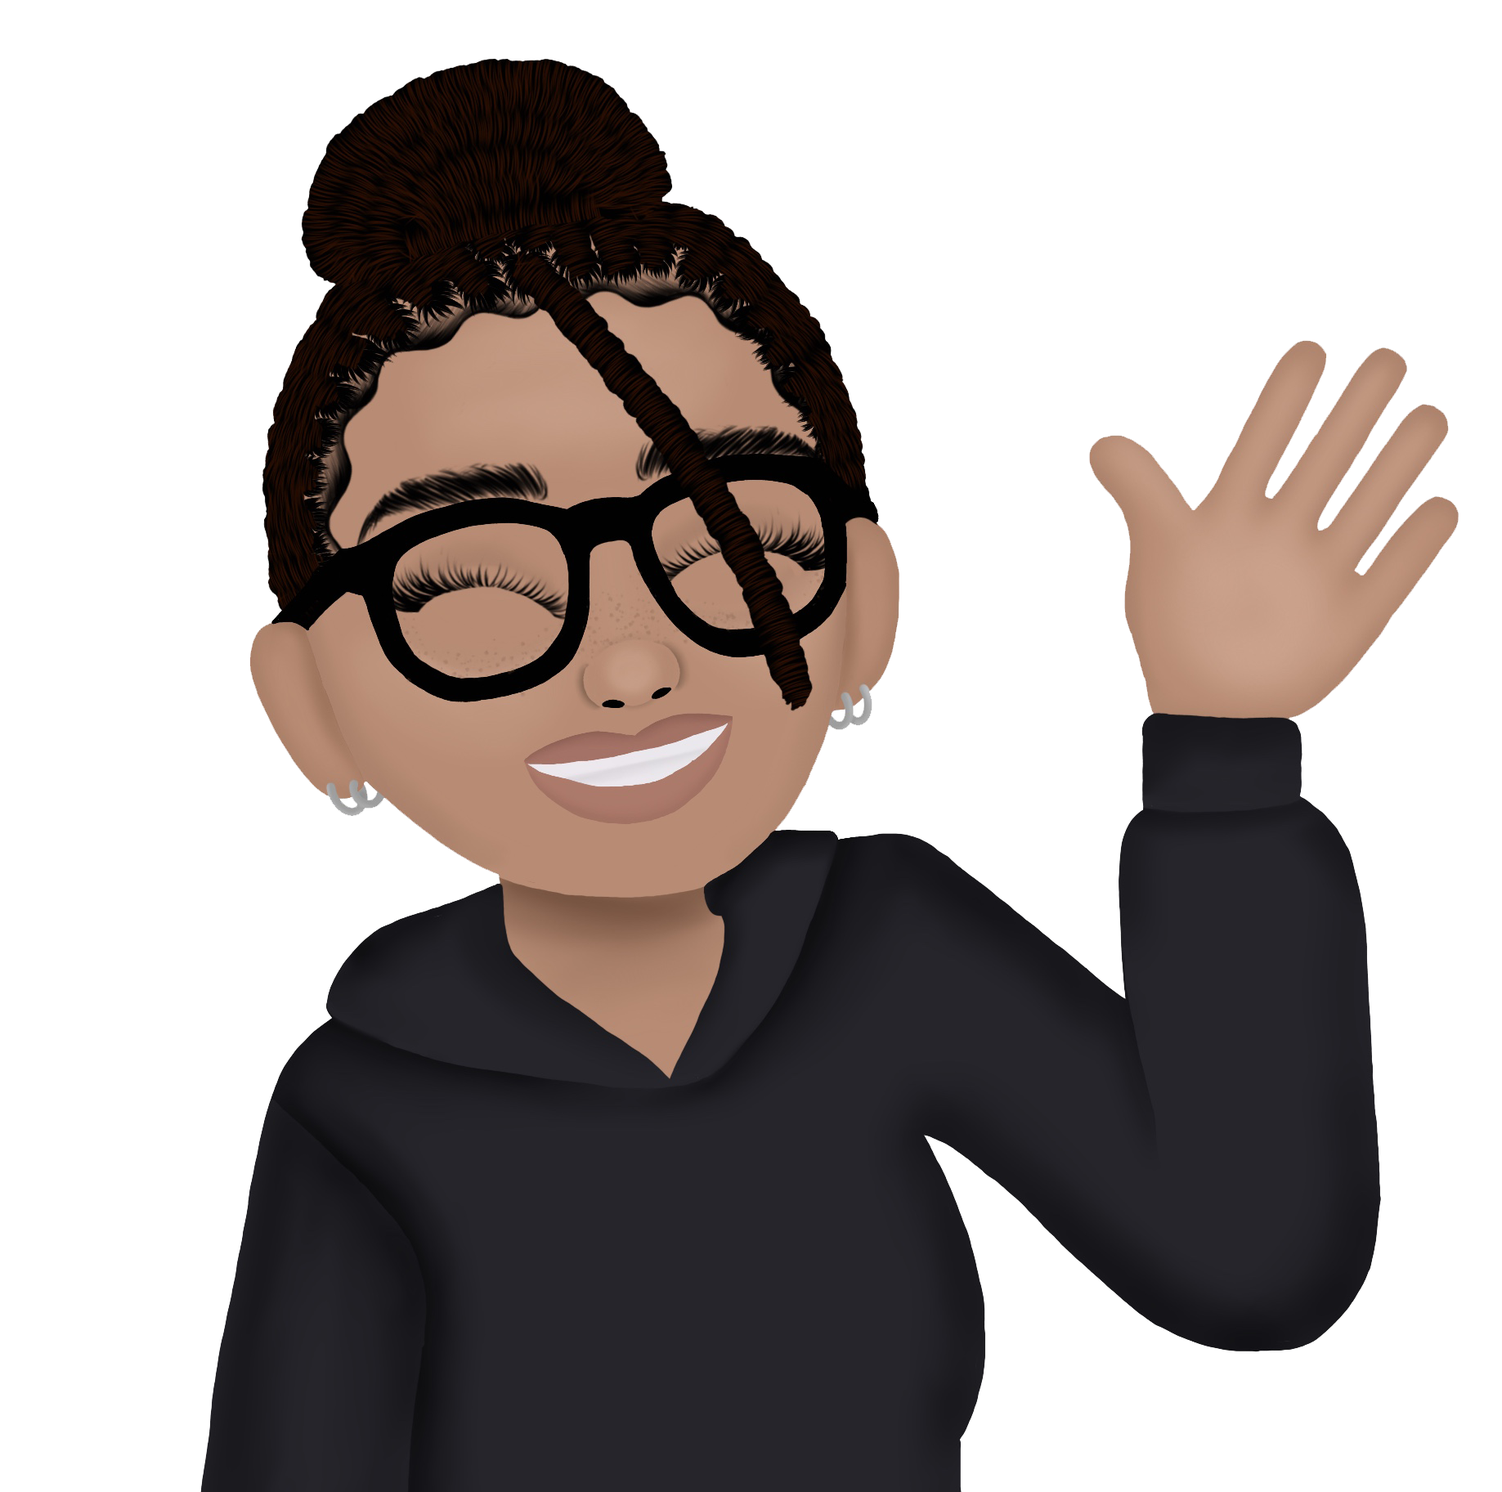
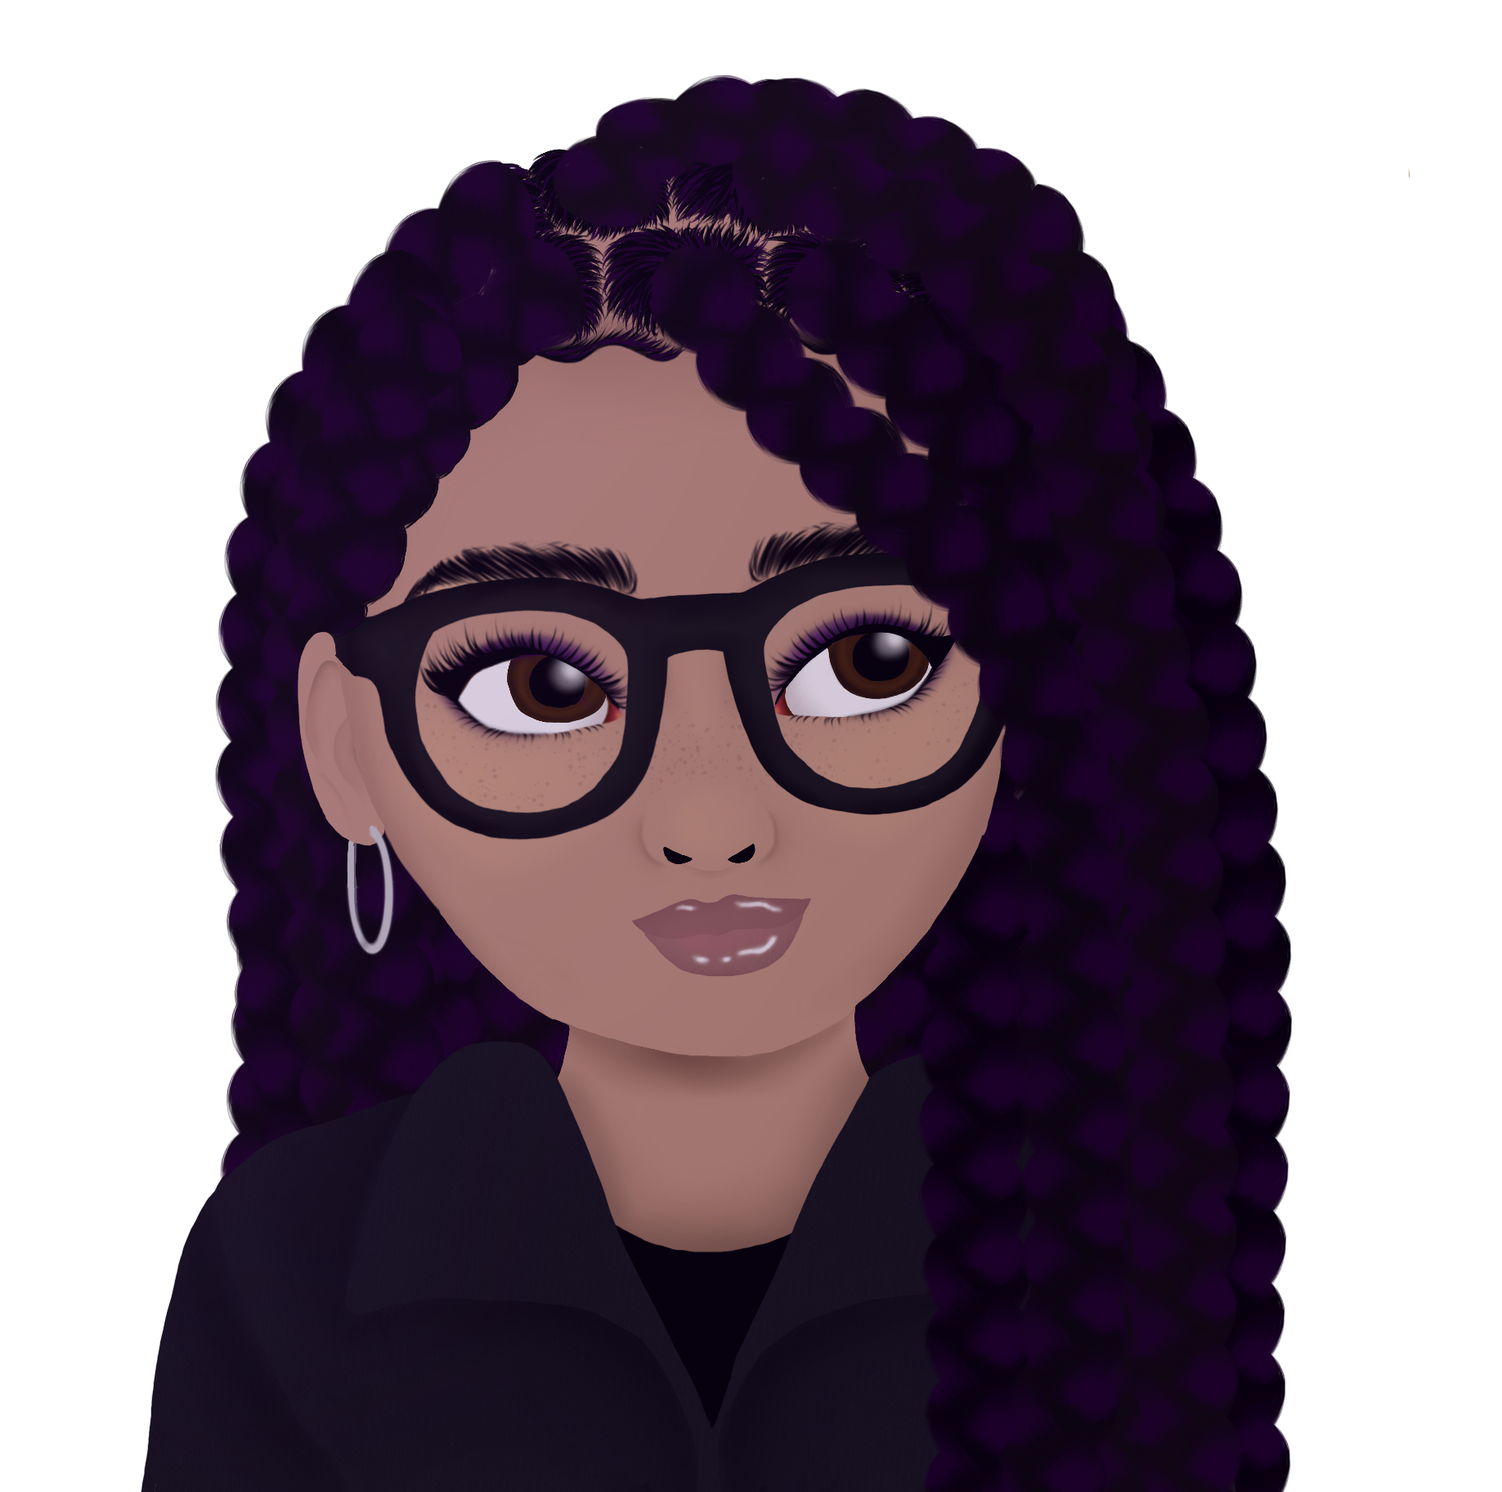
changed bio and pic

diff --git a/src/components/Home.jsx b/src/components/Home.jsx
@@ -4,12 +4,13 @@ import { ScrollTrigger } from 'gsap/ScrollTrigger';
 import { NavLink } from 'react-router-dom';
 import 'bootstrap/dist/css/bootstrap.min.css';
 
-import Container from 'react-bootstrap/Container';
 import Row from 'react-bootstrap/Row';
 import Col from 'react-bootstrap/Col';
 import Badge from 'react-bootstrap/Badge';
 import Carousel from 'react-bootstrap/Carousel';
 import Button from 'react-bootstrap/Button';
+import Nav from 'react-bootstrap/Nav';
+import Tab from 'react-bootstrap/Tab';
 
 import bioPic from '../assets/about-img.png';
 
@@ -34,8 +35,8 @@ function Home() {
             gsap.to(container, {
                 scrollTrigger: {
                     trigger: container,
-                    start: '2px 100%',
-                    end: 'bottom',
+                    start: '2px 100%', 
+                    end: 'bottom', 
                     toggleActions: 'play reverse play reverse', 
                 },
                 opacity: 1,
@@ -91,6 +92,8 @@ function Home() {
                     <Row style={{ height: "100vh", display: "flex",  flexDirection:"column", justifyContent: "center", alignItems: "center", textAlign: "center"}}>
                         <h1>Ashley Hill</h1> 
                         <img id="logo-img" src={logo} />
+                        <br />
+                        <p style={{fontFamily: "Englebert, cursive", fontSize: "17px"}}>Web developer and wordsmith</p>
                     </Row>
                 </div>
 
@@ -102,25 +105,74 @@ function Home() {
                             <img src={bioPic} />
                         </Col>
                         <Col>
-                            <p style={{padding: "60px 20px"}}>After being introduced to coding through a day job, I decided to jump feet-first into web development. I quickly  became fascinated with the challenges and creativity that come with combining art and technology.</p>
-                            <div className="badges-container">
-                                <h2>Technical Skills</h2>
-                                <div className="badge-box">
-                                    <Badge bg="secondary" className="badge animate__animated animate__pulse animate__infinite">HTML</Badge>
-                                    <Badge bg="secondary" className="badge animate__animated animate__pulse animate__infinite">CSS</Badge>
-                                    <Badge bg="secondary" className="badge animate__animated animate__pulse animate__infinite">Bulma CSS</Badge>
-                                    <Badge bg="secondary" className="badge animate__animated animate__pulse animate__infinite">Bootstrap</Badge>
-                                    <Badge bg="secondary" className="badge animate__animated animate__pulse animate__infinite">JavaScript</Badge>
-                                    <Badge bg="secondary" className="badge animate__animated animate__pulse animate__infinite">jQuery</Badge>
-                                    <Badge bg="secondary" className="badge animate__animated animate__pulse animate__infinite">React</Badge>
-                                    <Badge bg="secondary" className="badge animate__animated animate__pulse animate__infinite">Handlebars</Badge>
-                                    <Badge bg="secondary" className="badge animate__animated animate__pulse animate__infinite">Node.js</Badge>
-                                    <Badge bg="secondary" className="badge animate__animated animate__pulse animate__infinite">Express.js</Badge>
-                                    <Badge bg="secondary" className="badge animate__animated animate__pulse animate__infinite">SQL</Badge>
-                                    <Badge bg="secondary" className="badge animate__animated animate__pulse animate__infinite">MongoDB</Badge>
-                                    <Badge bg="secondary" className="badge animate__animated animate__pulse animate__infinite">RESTful APIs</Badge>
-                                    <Badge bg="secondary" className="badge animate__animated animate__pulse animate__infinite">UI/UX Design</Badge>
-                                </div>
+                            <p style={{padding: "60px 20px", lineHeight: "1.6"}}>
+                            I blend creativity with code to create websites that not only look great but also tell your story in a way that resonates with audiences. I help people and businesses establish their unique voice, craft web content and copy, and combine art and technology to build intuitive, user-friendly sites that engage visitors and drive results. </p>
+                            <div>
+                                <Tab.Container id="left-tabs-example" defaultActiveKey="first">
+                                    <Row className="skills-box">
+                                        <Col sm={3}>
+                                            <Nav variant="pills" className="flex-column">
+                                                <Nav.Item>
+                                                    <Nav.Link eventKey="first">Web Development</Nav.Link>
+                                                </Nav.Item>
+                                                <Nav.Item>
+                                                    <Nav.Link eventKey="second">Writing</Nav.Link>
+                                                </Nav.Item>
+                                            </Nav>
+                                        </Col>
+                                        <Col sm={9}>
+                                            <Tab.Content>
+                                                <Tab.Pane eventKey="first">
+                                                    {/* <ul>
+                                                        <li>HTML</li>
+                                                        <li>Handlebars</li>
+                                                        <li>CSS</li>
+                                                        <li>Bootstrap</li>
+                                                        <li>Bulma</li>
+                                                        <li>JavaScript</li>
+                                                        <li>React</li>
+                                                        <li>jQuery</li>
+                                                        <li>Node.js</li>
+                                                        <li>Express.js</li>
+                                                        <li>SQL</li>
+                                                        <li>MongoDB</li>
+                                                        <li>RESTful APIs</li>
+                                                        <li>UI/UX Design</li>
+                                                    </ul> */}
+                                                        <div className="badge-box">
+                                                            <Badge bg="secondary" className="badge animate__animated animate__pulse animate__infinite">HTML</Badge>
+                                                            <Badge bg="secondary" className="badge animate__animated animate__pulse animate__infinite">CSS</Badge>
+                                                            <Badge bg="secondary" className="badge animate__animated animate__pulse animate__infinite">Bulma CSS</Badge>
+                                                            <Badge bg="secondary" className="badge animate__animated animate__pulse animate__infinite">Bootstrap</Badge>
+                                                            <Badge bg="secondary" className="badge animate__animated animate__pulse animate__infinite">JavaScript</Badge>
+                                                            <Badge bg="secondary" className="badge animate__animated animate__pulse animate__infinite">jQuery</Badge>
+                                                            <Badge bg="secondary" className="badge animate__animated animate__pulse animate__infinite">React</Badge>
+                                                            <Badge bg="secondary" className="badge animate__animated animate__pulse animate__infinite">Handlebars</Badge>
+                                                            <Badge bg="secondary" className="badge animate__animated animate__pulse animate__infinite">Node.js</Badge>
+                                                            <Badge bg="secondary" className="badge animate__animated animate__pulse animate__infinite">Express.js</Badge>
+                                                            <Badge bg="secondary" className="badge animate__animated animate__pulse animate__infinite">SQL</Badge>
+                                                            <Badge bg="secondary" className="badge animate__animated animate__pulse animate__infinite">MongoDB</Badge>
+                                                            <Badge bg="secondary" className="badge animate__animated animate__pulse animate__infinite">RESTful APIs</Badge>
+                                                            <Badge bg="secondary" className="badge animate__animated animate__pulse animate__infinite">UI/UX Design</Badge>
+                                                        </div>
+                                                </Tab.Pane>
+                                                <Tab.Pane eventKey="second">
+                                                        <div className="wri-badge-box">
+                                                            <Badge bg="secondary" className="badge animate__animated animate__pulse animate__infinite">Web Content</Badge>
+                                                            <Badge bg="secondary" className="badge animate__animated animate__pulse animate__infinite">Ad Copy</Badge>
+                                                            <Badge bg="secondary" className="badge animate__animated animate__pulse animate__infinite">Email Marketing</Badge>
+                                                            <Badge bg="secondary" className="badge animate__animated animate__pulse animate__infinite">Social Media Posts</Badge>
+                                                            <Badge bg="secondary" className="badge animate__animated animate__pulse animate__infinite">Content Editing</Badge>
+                                                            <Badge bg="secondary" className="badge animate__animated animate__pulse animate__infinite">Proofreading</Badge>
+                                                            <Badge bg="secondary" className="badge animate__animated animate__pulse animate__infinite">Mission Statements</Badge>
+                                                            <Badge bg="secondary" className="badge animate__animated animate__pulse animate__infinite">Brand Development</Badge>
+                                                            <Badge bg="secondary" className="badge animate__animated animate__pulse animate__infinite">Taglines</Badge>
+                                                        </div>
+                                                </Tab.Pane>
+                                            </Tab.Content>
+                                        </Col>
+                                    </Row>
+                                </Tab.Container>
                             </div>
                         </Col>
                         </Row>
@@ -138,7 +190,8 @@ function Home() {
                                     </div>
                                     <div className="project-description">
                                         <h3>Gods and Beast</h3>
-                                        <p>Mythology card game.</p>
+                                        <p>Mythology card game.<br />
+                                        Created with MongoDB, Express.js, React, Node.js, CSS</p>
                                         <a href="https://gods-and-beasts.onrender.com/" target="_blank"><Button variant="primary">Visit site</Button></a>
                                     </div>
                                 </Carousel.Item>
@@ -147,9 +200,9 @@ function Home() {
                                     </div>
                                     <div className="project-description">
                                         <h3>Elsewhere Emporium</h3>
-                                        <p>Online fantasy magic shop.</p>
+                                        <p>Online fantasy magic shop.<br />
+                                        Created with React, CSS</p>
                                         <a href="https://github.com/ashleyh5440/elsewhere-emporium" target="_blank"><Button variant="primary">View on GitHub</Button></a>
-                                        <a href="https://elsewhere-emporium.netlify.app/" target="_blank"><Button variant="primary">Visit site</Button></a>
                                     </div>
                                 </Carousel.Item>
                                 <Carousel.Item>
@@ -157,9 +210,9 @@ function Home() {
                                     </div>
                                     <div className="project-description">
                                         <h3>The Box Office Dojo</h3>
-                                        <p>The perfect place to curate your own personal movie watch list.</p>
+                                        <p>The perfect place to curate your own personal movie watch list.<br />
+                                        Created with HTML, CSS, JavaScript</p>
                                         <a href="https://github.com/ashleyh5440/box-office-dojo" target="_blank"><Button variant="primary">View on GitHub</Button></a>
-                                        <a href="https://ashleyh5440.github.io/box-office-dojo/" target="_blank"><Button variant="primary">Visit site</Button></a>
                                     </div>
                                 </Carousel.Item>
                                 <Carousel.Item>
@@ -167,9 +220,9 @@ function Home() {
                                     </div>
                                     <div className="project-description">
                                         <h3>Coding Study Guide</h3>
-                                        <p>Coding information, resources, and tips all in one place.</p>
+                                        <p>Coding information, resources, and tips all in one place.<br />
+                                        Created with HTML, CSS, JavaScript</p>
                                         <a href="https://github.com/ashleyh5440/new-prework-study-guide" target="_blank"><Button variant="primary">View on GitHub</Button></a>
-                                        <a href="https://ashleyh5440.github.io/new-prework-study-guide/" target="_blank"><Button variant="primary">Visit site</Button></a>
                                     </div>
                                 </Carousel.Item>
                                 <Carousel.Item>
@@ -177,9 +230,10 @@ function Home() {
                                     </div>
                                     <div className="project-description">
                                         <h3>Password Generator</h3>
-                                        <p>Generate a secure random password.</p>
+                                        <p>Generate a secure random password.<br />
+                                        Created with HTML, CSS, JavaScript</p>
                                         <a href="https://github.com/ashleyh5440/password-generator" target="_blank"><Button variant="primary">View on GitHub</Button></a>
-                                        <a href="https://ashleyh5440.github.io/password-generator/" target="_blank"><Button variant="primary">Visit site</Button></a>
+
                                     </div>
                                 </Carousel.Item>
                                 <Carousel.Item>
@@ -187,9 +241,9 @@ function Home() {
                                     </div>
                                     <div className="project-description">
                                         <h3>Know It All</h3>
-                                        <p>Test your smarts with this comprehensive trivia game.</p>
+                                        <p>Test your smarts with this comprehensive trivia game.<br />
+                                        Created with React, Node.js, CSS</p>
                                         <a href="https://github.com/ashleyh5440/know-it-all" target="_blank"><Button variant="primary">View on GitHub</Button></a>
-                                        <a href="https://know-it-all-trivia.netlify.app/" target="_blank"><Button variant="primary">Visit site</Button></a>
                                     </div>
                                 </Carousel.Item>
                                 <Carousel.Item>
@@ -197,9 +251,9 @@ function Home() {
                                     </div>
                                     <div className="project-description">
                                         <h3>Halloween Hangman</h3>
-                                        <p>Escape the noose by guessing the correct word in the Halloween-themed hangman game.</p>
-                                        <a href="https://github.com/ashleyh5440/hangman" target="_blank"><Button variant="primary">Visit site</Button></a>
-                                        <a href="https://ashleyh5440.github.io/hangman/" target="_blank"><Button variant="primary">Visit site</Button></a>
+                                        <p>Escape the noose by guessing the correct word in the Halloween-themed hangman game.<br />
+                                        Created with HTML, CSS, JavaScript</p>
+                                        <a href="https://github.com/ashleyh5440/hangman" target="_blank"><Button variant="primary">View on GitHub</Button></a>
                                     </div>
                                 </Carousel.Item>
                         </Carousel>

diff --git a/src/index.css b/src/index.css
@@ -85,7 +85,6 @@ li {
 }
 
 .bio-pic-container {
-  /* width: 80%; */
   width: 300px;
   height: 100%;
   display: flex;
@@ -95,32 +94,99 @@ li {
 }
 
 .bio-pic-container img {
-  width: 70%;
+  width: 90%;
 }
 
-.badges-container {
-  width: 98%;
-  height: 400px;
+.skills-box {
+  width: 45%;
+  height: 420px;
 }
 
-.badge-box {
+.col-sm-3 {
+  width: 100%;
+}
+
+.skills-box::-webkit-scrollbar {
+  display: none;
+}
+
+.nav-pills {
   width: 100%;
   display: flex;
+  flex-direction: row !important;
+  justify-content: space-around;
+  flex-wrap: wrap;
+}
+
+.nav-item {
+  width: 255px;
+  margin: 10px;
+  display: flex;
+  flex-direction: column;
+  align-items: center;
+}
+
+.nav-link, .nav-link .active {
+  background-color: rgb(50, 0, 80) !important;
+  width: 100%;
+  color: white;
+}
+
+.nav-link:hover {
+  color: black;
+}
+
+.col-sm-9 {
+  display: flex;
+  flex-direction: column;
+  align-items: center;
+  width: 100%;
+  height: 65%;
+  margin-top: 15px;
+}
+
+.tab-content {
+  width: 90%;
+  height: 100%;
+}
+
+.tab-pane::-webkit-scrollbar {
+  display: none;
+}
+
+.tab-pane {
+  width: 100%;
+  height: 100%;
+  -ms-overflow-style: none;
+  scrollbar-width: none;
+}
+
+.badge-box, .wri-badge-box {
+  width: 100%;
+  display: flex;
+  flex-direction: row;
+  align-items: center;
+  justify-content: space-around;
   flex-wrap: wrap;
   overflow: visible;
 }
 
-.badge-box .badge {
-  width: 18%;
-  padding: 10px 50px;
+.badge-box .badge, .wri-badge-box .badge {
+  width: 20%;
+  padding: 10px 70px;
   margin: 8px;
-  font-size: 60%;
+  font-size: 20px;
   text-align: center;
   background-color: rgb(27, 4, 45) !important;
   display: flex;
   flex-wrap: wrap;
   justify-content: center;
   align-items: center;
+}
+
+.wri-badge-box .badge {
+  width: 30%;
+  padding: 10px 100px;
 }
 
 .carousel { 
@@ -156,6 +222,7 @@ li {
   flex-direction: column;
   align-items: center;
   overflow-y: hidden;
+  line-height: 1.6;
 }
 
 .project-description button {
@@ -211,6 +278,7 @@ li {
   text-align: center;
   margin: 0%;
   height: 100vh;
+  overflow: hidden;
 }
 
 #portfolio {
@@ -285,6 +353,11 @@ li {
     background-color: rgb(20, 20, 64);
     background-image: none;
   }
+
+  .skills-box {
+    width: 95%;
+  }
+
   .carousel {
     width: 500px;
   }
@@ -309,6 +382,10 @@ li {
     width: 100%;
     height: 200px !important;
     overflow: hidden;
+  }
+
+  .bio-pic-container img {
+    width: 70%;
   }
 
   #about {
